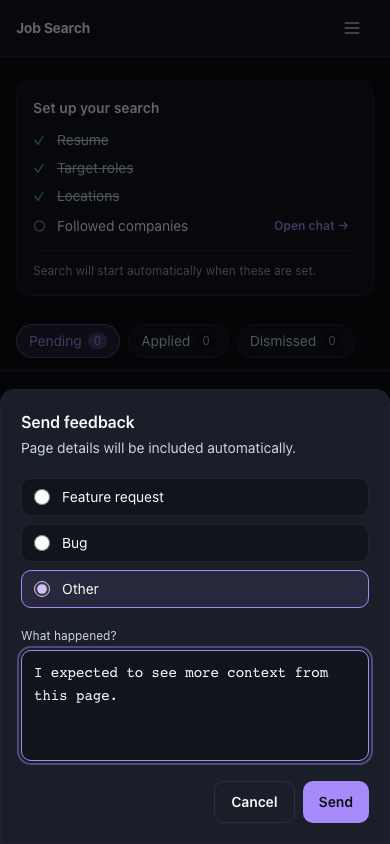
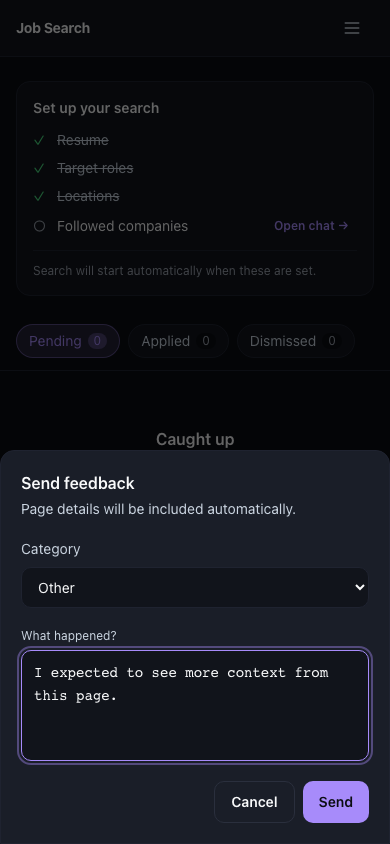
feat: use feedback category dropdown

Changed region(s): [[0.0, 0.4621, 1.0, 0.7393]]

diff --git a/frontend/src/components/FeedbackModal.tsx b/frontend/src/components/FeedbackModal.tsx
@@ -42,6 +42,7 @@ function collectFeedbackDiagnostics(): FeedbackDiagnostics {
 export function FeedbackModal({ open, onClose }: FeedbackModalProps) {
   const titleId = useId()
   const helperId = useId()
+  const categoryId = useId()
   const [category, setCategory] = useState<FeedbackCategory>('feature_request')
   const [message, setMessage] = useState('')
   const { show } = useToast()
@@ -100,28 +101,26 @@ export function FeedbackModal({ open, onClose }: FeedbackModalProps) {
           <p id={helperId} className="text-sm text-muted">Page details will be included automatically.</p>
         </div>
 
-        <fieldset className="flex flex-col gap-2">
-          <legend className="sr-only">Feedback category</legend>
-          {categories.map((item) => (
-            <label
-              key={item.value}
-              className={cn(
-                'flex items-center gap-3 rounded-md-token border border-border bg-surface px-3 py-2 text-sm text-text',
-                'has-[:checked]:border-accent has-[:checked]:bg-accent/10',
-              )}
-            >
-              <input
-                type="radio"
-                name="feedback-category"
-                value={item.value}
-                checked={category === item.value}
-                onChange={() => setCategory(item.value)}
-                className="h-4 w-4 accent-accent"
-              />
-              <span>{item.label}</span>
-            </label>
-          ))}
-        </fieldset>
+        <div className="flex flex-col gap-2">
+          <label htmlFor={categoryId} className="text-sm text-muted">
+            Category
+          </label>
+          <select
+            id={categoryId}
+            value={category}
+            onChange={(event) => setCategory(event.target.value as FeedbackCategory)}
+            className={cn(
+              'w-full rounded-md-token border border-border bg-surface px-3 py-2.5 text-sm text-text',
+              'focus-visible:outline-none focus-visible:ring-2 focus-visible:ring-accent',
+            )}
+          >
+            {categories.map((item) => (
+              <option key={item.value} value={item.value}>
+                {item.label}
+              </option>
+            ))}
+          </select>
+        </div>
 
         <TextArea
           label="What happened?"

diff --git a/frontend/src/components/FeedbackModal.test.tsx b/frontend/src/components/FeedbackModal.test.tsx
@@ -28,18 +28,16 @@ describe('FeedbackModal', () => {
     document.title = 'Job Search'
   })
 
-  it('renders categories in order with Feature request selected by default', () => {
+  it('renders category dropdown with Feature request selected by default', () => {
     render(withCtx(<FeedbackModal open onClose={() => {}} />))
 
-    const radios = screen.getAllByRole('radio')
-    expect(radios.map((radio) => radio.getAttribute('value'))).toEqual([
-      'feature_request',
-      'bug',
-      'other',
+    const select = screen.getByRole('combobox', { name: 'Category' })
+    expect(select).toHaveValue('feature_request')
+    expect(within(select).getAllByRole('option').map((option) => option.textContent)).toEqual([
+      'Feature request',
+      'Bug',
+      'Other',
     ])
-    expect(screen.getByRole('radio', { name: 'Feature request' })).toBeChecked()
-    expect(screen.getByRole('radio', { name: 'Bug' })).not.toBeChecked()
-    expect(screen.getByRole('radio', { name: 'Other' })).not.toBeChecked()
   })
 
   it('does not allow an empty message to submit', async () => {
@@ -83,7 +81,7 @@ describe('FeedbackModal', () => {
     )
 
     render(withCtx(<StatefulFeedbackModal />))
-    await user.click(screen.getByRole('radio', { name: 'Other' }))
+    await user.selectOptions(screen.getByRole('combobox', { name: 'Category' }), 'other')
     await user.type(screen.getByLabelText('What happened?'), 'The cover letter looks stale.')
     await user.click(screen.getByRole('button', { name: 'Send' }))
 
@@ -113,14 +111,13 @@ describe('FeedbackModal', () => {
     )
 
     render(withCtx(<StatefulFeedbackModal />))
-    const dialog = screen.getByRole('dialog')
-    await user.click(within(dialog).getByRole('radio', { name: 'Bug' }))
+    await user.selectOptions(screen.getByRole('combobox', { name: 'Category' }), 'bug')
     await user.type(screen.getByLabelText('What happened?'), 'This button does nothing.')
     await user.click(screen.getByRole('button', { name: 'Send' }))
 
     expect(await screen.findByRole('status')).toHaveTextContent('Could not send feedback. Try again.')
     expect(screen.getByRole('dialog')).toBeInTheDocument()
     expect(screen.getByLabelText('What happened?')).toHaveValue('This button does nothing.')
-    expect(screen.getByRole('radio', { name: 'Bug' })).toBeChecked()
+    expect(screen.getByRole('combobox', { name: 'Category' })).toHaveValue('bug')
   })
 })